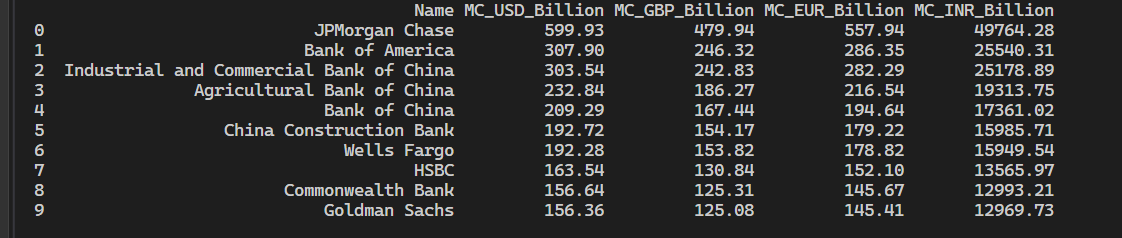
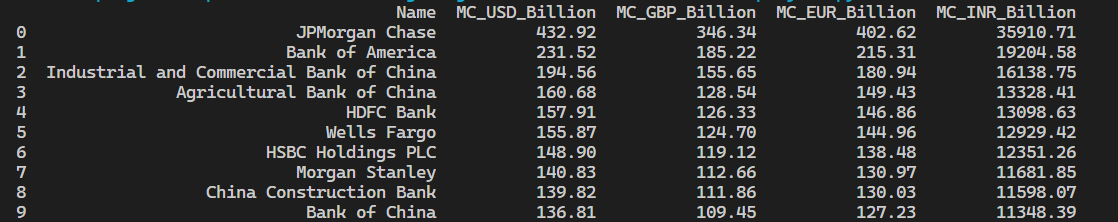
Modify ETL Pipeline for Extracting Largest Bank Data from Web"

diff --git a/Python for Data Engineering/ETL Pipelines/Scripts/ETL Pipeline Scripts for Web Scraping/ETL Pipeline for Extracting Largest Bank Data from Web/banks_project.py b/Python for Data Engineering/ETL Pipelines/Scripts/ETL Pipeline Scripts for Web Scraping/ETL Pipeline for Extracting Largest Bank Data from Web/banks_project.py
@@ -8,152 +8,158 @@ from sqlalchemy import create_engine
 
 
 # Extract
-def extract(url, tableAttr):
-    response = requests.get(url)
-    
-    # Extract the data using request library and parse the response into a soup object
+def extract(url : str, tableAttrs : list) -> pd.DataFrame:
+    # Request to extract the information from the website
+    response = requests.get(url=url)
+
+
+    # Convert extracted website data to Beautiful Soup Object
     soup = BeautifulSoup(response.text, 'html.parser')
-    tbody = soup.find_all('tbody')
-    rows = tbody[2].find_all('tr')
-    
-    
-    # Initialize a dictionary to store extracted data
-    largestBankDict = {tableAttr[0] : [], tableAttr[1] : []}
+    tbody  = soup.find_all('tbody')
+    rows = tbody[0].find_all('tr')
 
 
-    # Extracte necessary data from soup object to dictionary
-    for rowNumber, row in enumerate(rows):
-        rowNumber += 1
-        tdTable = row.find_all('td')
-    
-        if len(tdTable) >= 4:
-            largestBankDict[tableAttr[0]].append(str(tdTable[0].text).strip())
-            largestBankDict[tableAttr[1]].append(str(tdTable[2].text).replace('\n', '').strip())
-    
-    
+    # Initialize a dictionary to store extracted website data
+    banksDataDict = {tableAttrs[0] : [], tableAttrs[1] : []}
+
+
+    # Map extrated website data to dictionary
+    for row in rows:
+        bankData = row.find_all('td')
+        
+        if len(bankData) >= 3:
+            bankName = bankData[1].find_all('a')[1].text
+            marketCapUsdBillion = float(str(bankData[2].text)[:-1])
+
+            banksDataDict[tableAttrs[0]].append(bankName)
+            banksDataDict[tableAttrs[1]].append(marketCapUsdBillion)    
+
+
     # Convert dictionary to dataframe
-    largestBankDf = pd.DataFrame(largestBankDict)
+    banksDataDf = pd.DataFrame(banksDataDict)
 
-    return largestBankDf
+    return banksDataDf
 
 
 
 
 # Transform
-def transform(df, csvFilepath):
-    # Initialize a dictionary to store transformed data
-    transformedDict = {'Name' : [], 'MC_USD_Billion' : [],
-                       'MC_GBP_Billion' : [], 'MC_EUR_Billion' : [], 
-                       'MC_INR_Billion' : []}
+def transform(df : pd.DataFrame, csvFilepath : str) -> pd.DataFrame:
+    # Initialize a dictionary to map dataframe from the paratemeters
+    transformedBanksDataDict = {'Name' : [], 'MC_USD_Billion' : [], 'MC_GBP_Billion' : [], 
+                                'MC_EUR_Billion' : [], 'MC_INR_Billion' : []}
     
 
-    # Extract Exchanges Rates Data from CSV File to a Exchange Rates Dictionary for exchange rate conversion
-    exchangeRatesDf = pd.read_csv(csvFilepath)
-    exchangeRatesDict = {}
+    # Extract exchange rates data from the csv filapath
+    exchangeRateDf = pd.read_csv(csvFilepath)
+    exchangeRateDict = {}
+
+    for _, row in exchangeRateDf.iterrows():
+        exchangeRateDict[row.get('Currency')] = float(row.get('Rate'))
+
+
+    # Transform values of dataframe from the parameter
+    for _, row in df.iterrows():
+        bankName = row.get('Name')
+        marketCapUsdBillion = row.get('MC_USD_Billion')
+
+        # Map transformed values to dictionary
+        exchangeRateCurrencies = ['GBP', 'EUR', 'INR']
+        transformedBanksDataDict['Name'].append(bankName)
+        transformedBanksDataDict['MC_USD_Billion'].append(marketCapUsdBillion)
+
+        for currency in exchangeRateCurrencies:
+            transformedBanksDataDict[f'MC_{currency}_Billion'].append(round(marketCapUsdBillion * exchangeRateDict[currency], 2))
+
+
+    # Convert dictionary to dataframe
+    transformedBanksDataDf = pd.DataFrame(transformedBanksDataDict)
+
+    return transformedBanksDataDf
+
+
+
+
+# Load to Different Flat Filepath Formats
+def load_to_files(df : pd.DataFrame, filepaths : dict) -> None:
+    df.to_csv(filepaths['CSV Filepath'], index=False)
     
-    for _, row in exchangeRatesDf.iterrows():
-        exchangeRatesDict[row.get('Currency')] = float(row.get('Rate'))
-    
-        
-    # Transform data from the dataframe and store in dictionary
-    for index, row in df.iterrows():
-        if index <= 9:
-            transformedDict['Name'].append(row.get('Name'))
-            
+    with open(filepaths['JSON Filepath'], 'w') as f:
+        f.write(df.to_json(orient='records'))
+    f.close()
 
-            # Initialize a dictionary to store market cap of different exchange rates
-            marketCapDict = {'MC_USD_Billion' : None, 'MC_GBP_Billion' : None,
-                             'MC_EUR_Billion' : None, 'MC_INR_Billion' : None}
-            
-
-            # Convert usd billion market cap to different market cap exchanges rates (GBP, EUR, and INR)
-            marketCapDict['MC_USD_Billion'] = float(row.get('MC_USD_Billion'))
-            
-            marketCapDict['MC_GBP_Billion'] = marketCapDict['MC_USD_Billion'] * exchangeRatesDict['GBP']
-            marketCapDict['MC_EUR_Billion'] = marketCapDict['MC_USD_Billion'] * exchangeRatesDict['EUR']
-            marketCapDict['MC_INR_Billion'] = marketCapDict['MC_USD_Billion'] * exchangeRatesDict['INR']
-
-
-            # Map different market cap dictionaries to the main dictionary (transformedDict)
-            for column, value in marketCapDict.items():
-                transformedDict[column].append(f'{value:.2f}')
-    
-
-    # Convert transformedDict to dataframe
-    transformedDf = pd.DataFrame(transformedDict)
-
-    return transformedDf
-
-
-
-
-# Load to CSV Filepath
-def load_to_csv(df, csvFilepath):
-    df.to_csv(csvFilepath, index=False)
+    df.to_xml(path_or_buffer=filepaths['XML Filepath'], root_name='Largest_Banks_Data', row_name='Bank', index=False, parser='lxml')
 
 
 
 
 # Load to Local MySQL Database Instance
-def load_to_db(df, engine, tableName):
+def load_to_db(df : pd.DataFrame, engine : str, tableName : str) -> None:
     df.to_sql(tableName, engine, if_exists='replace', index=False)
 
 
 
 
-# Run Query in Local MySQL Database Instance
-def run_query(query, engine):
-    print(pd.read_sql(query[0], engine), '\n\n')
-    print(pd.read_sql(query[1], engine), '\n\n')
-    print(pd.read_sql(query[2], engine))
+# Run Query in MySQL Database
+def run_query(queryStatement : list, engine : str) -> None:
+    for query in queryStatement:
+        print(pd.read_sql(query, engine), end='\n\n')
 
 
 
 
 # Logs
-def log_progress(message):
-    format = '%Y-%m-%d %H:%M:%S'
+def log_progress(message : str) -> None:
+    format = '%Y-%m-%d'
     now = datetime.now()
     timestamp = now.strftime(format)
 
-    logfile = 'code_log.txt'
-
+    logfile  = 'code_log.txt'
+    
     with open(logfile, 'a') as f:
         f.write(f'{timestamp} : {message}\n')
 
 
 log_progress('Preliminaries complete. Initiating ETL Process')
 
-url = 'https://en.wikipedia.org/wiki/List_of_largest_banks#By_market_capitalization'
+
+# Extract
+url = 'https://web.archive.org/web/20230908091635/https://en.wikipedia.org/wiki/List_of_largest_banks'
 tableAttributes = ['Name', 'MC_USD_Billion']
 df = extract(url, tableAttributes)
-log_progress('Data Extraction complete. Initiating Transformation Process')
+log_progress('Data Extraction Complete. Initiating Transformation process')
 
-exchangeRatesCsvFilepath = 'Source Data Files\\Largest Banks Data\\exchange_rate.csv'
-transformedDf = transform(df, exchangeRatesCsvFilepath)
-log_progress('Data Transformation complete. Initiating Loading Process')
 
-targetCsvFilepath = 'Target Data Files\\Largest Bank Data\\CSV Files\\Largest_banks_data.csv'
-load_to_csv(transformedDf, targetCsvFilepath)
-log_progress('Data saved to CSV file')
+# Transform
+currencyExchangeCsvFilepath = 'Source Data Files\\Largest Banks Data\\exchange_rate.csv'
+transformedDf = transform(df, currencyExchangeCsvFilepath)
+log_progress('Data Transformation Complete. Initiating Loading process')
 
+
+# Load to Target Data Sources
+filepathsDict = {'CSV Filepath' : 'Target Data Files\\Largest Bank Data\\CSV Files\\Largest_banks_data.csv',
+                 'JSON Filepath' : 'Target Data Files\\Largest Bank Data\\JSON Files\\Largest_banks_data.json',
+                 'XML Filepath' : 'Target Data Files\\Largest Bank Data\\XML Files\\Largest_banks_data.xml'}
+load_to_files(transformedDf, filepathsDict)
+log_progress('Data saved to different Flat Filepaths Format')
+
+
+# Load to Local MySQL Database Instance
 log_progress('SQL Connection Initiated')
 username = '<YOUR_USERNAME>'
 password = '<YOUR_PASSWORD>'
 hostname = '<YOUR_HOSTNAME>'
-dbName = 'Banks'
+dbName = 'banks'
 tableName = 'largest_banks'
 engine = create_engine(f'mysql+pymysql://{username}:{password}@{hostname}/{dbName}')
 load_to_db(transformedDf, engine, tableName)
-log_progress('Data loaded to Database as a table, Executing queries')
+log_progress('Data loaded to as a table, Executing queries')
 
 
-displayContentsQuery = 'SELECT * FROM largest_banks'
-avgMarketCapUsdQuery = 'SELECT ROUND(AVG(MC_USD_Billion), 2) AS Avearge_Market_Cap_USD_Billion FROM largest_banks'
-top5BankNames = 'SELECT Name FROM largest_banks LIMIT 5'
-queryStatements = [displayContentsQuery, avgMarketCapUsdQuery, top5BankNames]
+# Run Query in MySQL Database
+queryStatements = ['SELECT * FROM largest_banks', 'SELECT AVG(MC_GBP_Billion) AS Average_MC_GBP_Billion FROM largest_banks', 'SELECT Name FROM largest_banks LIMIT 5']
 run_query(queryStatements, engine)
-log_progress('Process Complete')
+log_progress('Process complete')
 
 log_progress('Server Connection closed')
 
